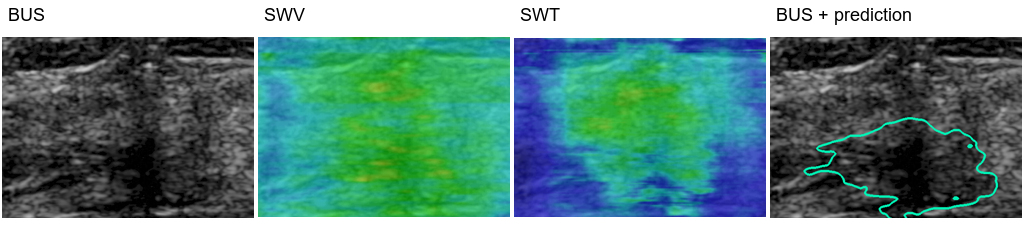
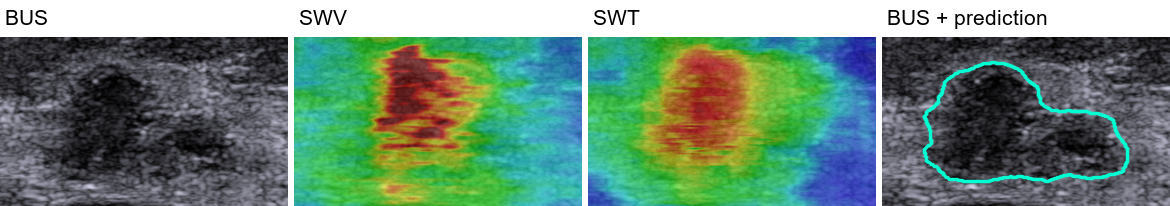
Show top Dice examples from the reported test run

diff --git a/README.md b/README.md
@@ -2,18 +2,16 @@
 
 Three paired ultrasound examinations from the 76-case test split. Each row shows B-mode ultrasound (BUS), shear-wave velocity (SWV), shear-wave time (SWT), and the final segmentation on BUS (green contour). Display panels are cropped and resized; Dice is evaluated on the original BUS grid.
 
-**Test performance:** D2-Seg achieved a mean Dice of **72.10%** and a mean IoU of **58.11%** on the 76-case test split using the U-Net student (seed 128) and MedGemma-27B-it review.
+Across the 76-case test split, D2-Seg achieved a mean Dice of **72.10%** and a mean IoU of **58.11%**. The examples below show the three cases with the highest Dice in that evaluation.
 
-The examples below come from a separate run with a three-branch U-Net++ student (seed 124) and nine-candidate MedGemma review. They were selected near the 25th, 50th and 75th percentiles of case-level Dice for that run.
-
-### Example 1 — Dice 63.17%
+### Example 1 — Dice 93.13%
 
 ![Example 1: BUS, SWV, SWT and BUS prediction](examples/example-01.png)
 
-### Example 2 — Dice 74.74%
+### Example 2 — Dice 92.70%
 
 ![Example 2: BUS, SWV, SWT and BUS prediction](examples/example-02.png)
 
-### Example 3 — Dice 83.66%
+### Example 3 — Dice 92.06%
 
 ![Example 3: BUS, SWV, SWT and BUS prediction](examples/example-03.png)
